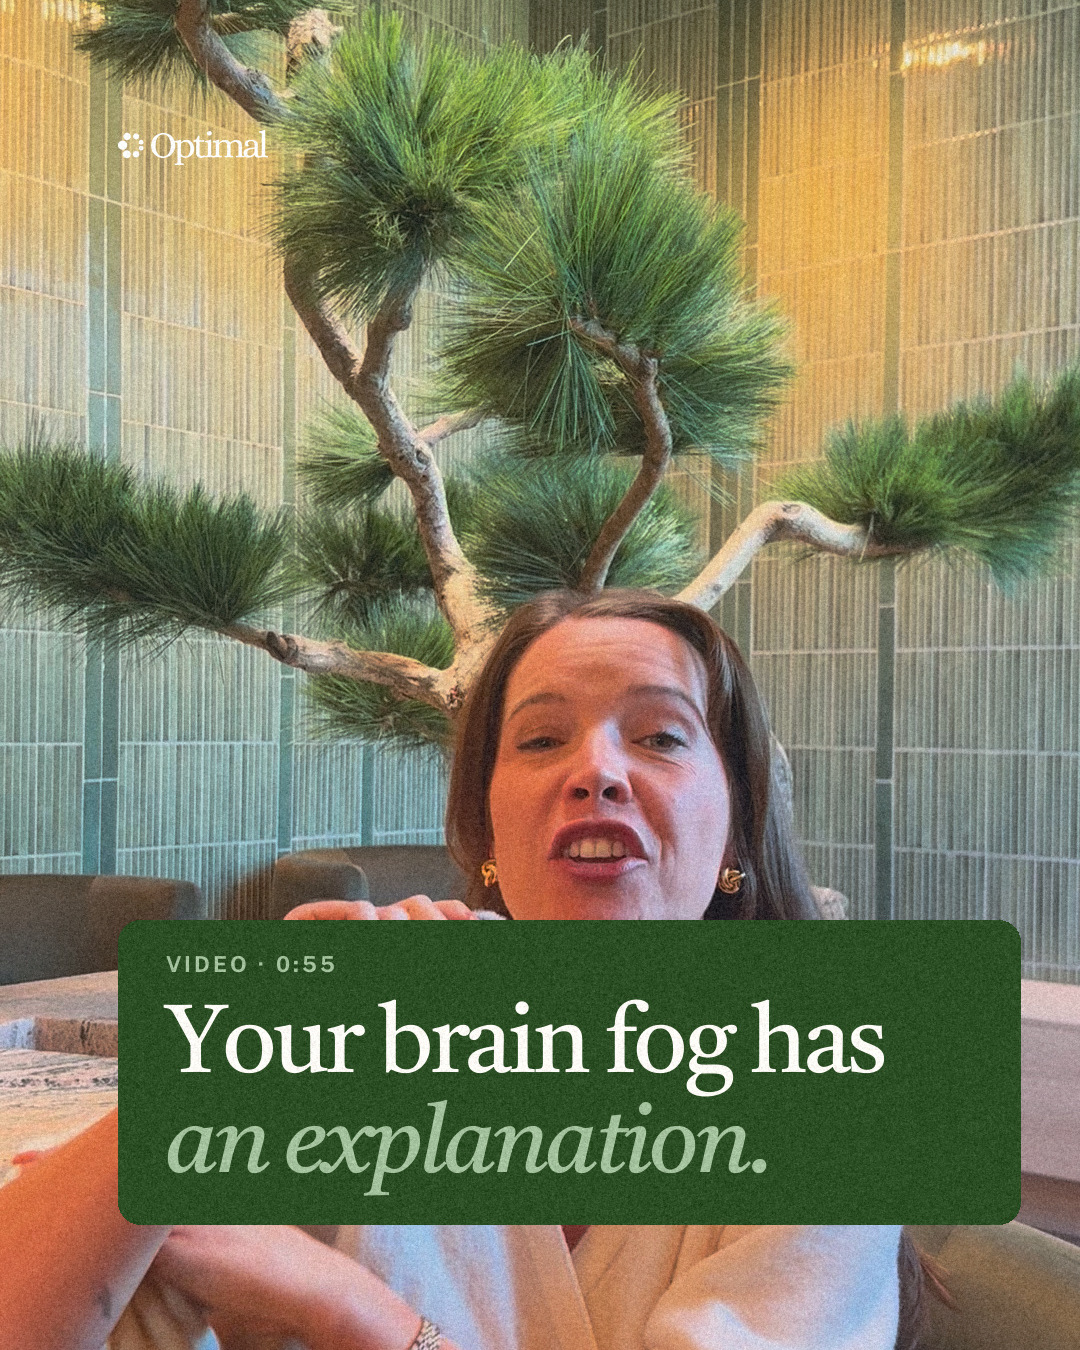
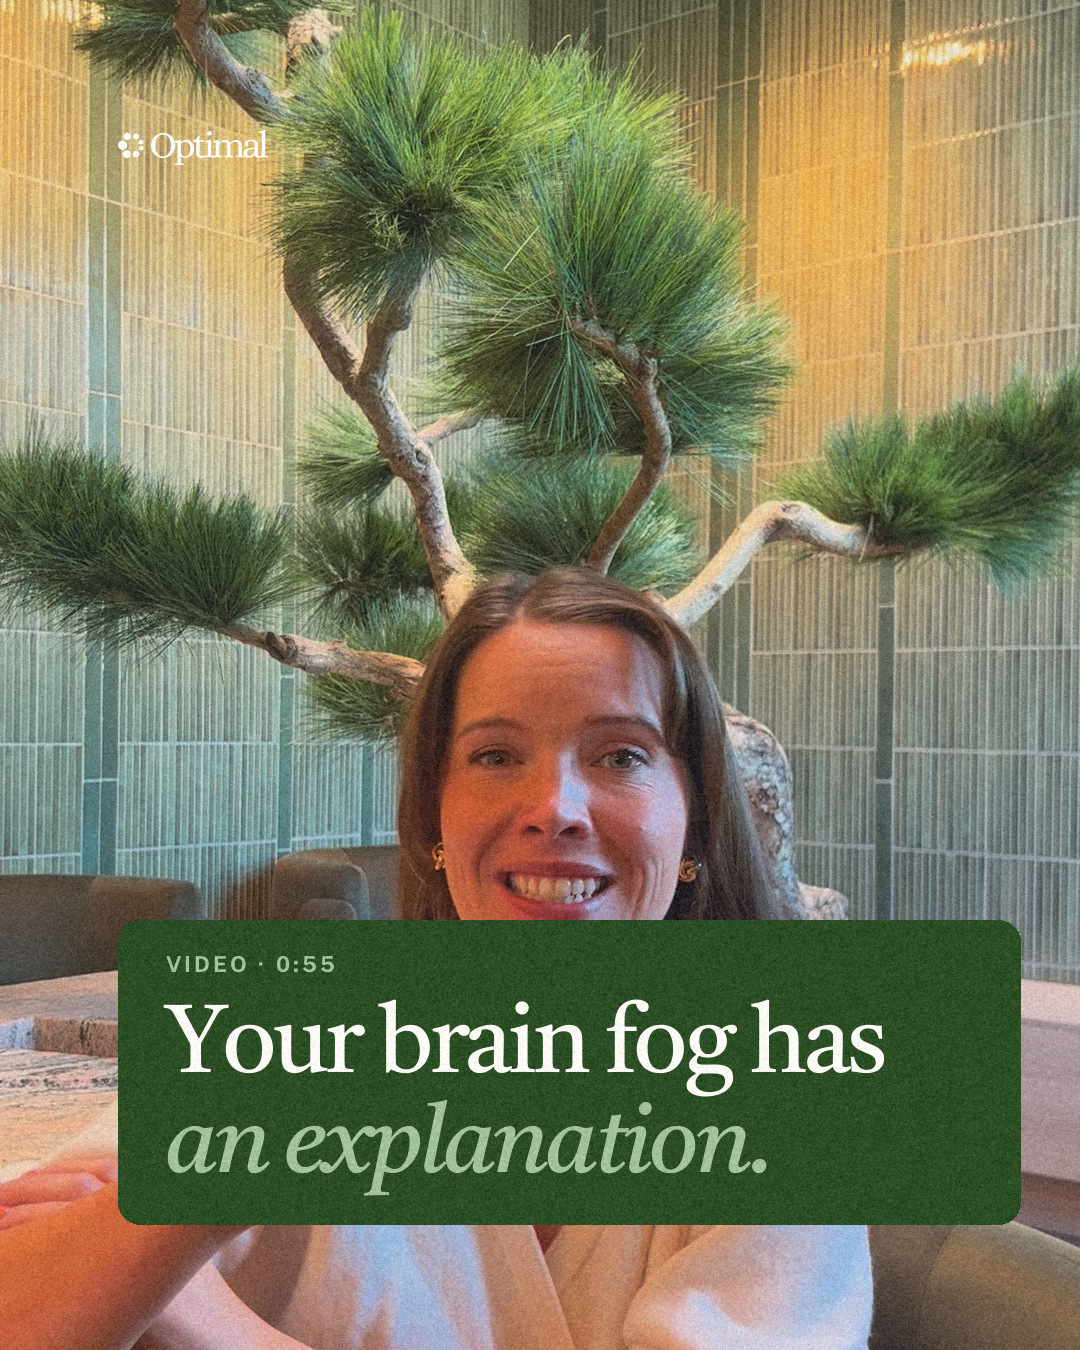
Hand-off site: ads updated Oct 26, 2026

diff --git a/index.html b/index.html
@@ -220,7 +220,7 @@
       <div class="zips">Zips: <a href="https://github.com/Optimal-Research-Team/optimal-ad-handoff/releases/download/2026-10-12/Optimal-static-ads-round-1_2026-10-12.zip" download>Static round 1 · 21 MB</a> <a href="https://github.com/Optimal-Research-Team/optimal-ad-handoff/releases/download/2026-10-12/Optimal-static-ads-round-2_2026-10-12.zip" download>Static round 2 · 72 MB</a> <a href="https://github.com/Optimal-Research-Team/optimal-ad-handoff/releases/download/2026-10-12/Optimal-static-ads-round-3_2026-10-12.zip" download>Static round 3 · 28 MB</a> <a href="https://github.com/Optimal-Research-Team/optimal-ad-handoff/releases/download/2026-10-12/Optimal-IV-iron-ads_2026-10-12.zip" download>IV iron round 1 · 9 MB</a> <a href="https://github.com/Optimal-Research-Team/optimal-ad-handoff/releases/download/2026-10-12/Optimal-IV-iron-ads-round-2_2026-10-12.zip" download>IV iron round 2 · 24 MB</a> <a href="https://github.com/Optimal-Research-Team/optimal-ad-handoff/releases/download/2026-10-12/Optimal-cycle-hormone-statics_2026-10-12.zip" download>Cycle &amp; Hormone statics · 11 MB</a></div>
     </div>
   </div>
-  <div class="news" id="new"><div class="day latest"><div class="date">Oct 26</div><div><p>Instagram check: nothing new has gone up since Oct 24. MA2 is live as an organic feed post (since Oct 23), and its card now says so. Two drawn 3-D equipment reels went up on Oct 24 (the InBody 580 and the KICKR BIKE); they aren&#x27;t ads, so they have no cards here. New rule for organic posts (Peter, Oct 24): nothing that needs Meta&#x27;s AI label goes on Instagram or Facebook.</p><div class="ids"><a href="#MA2">MA2</a></div></div></div><div class="day"><div class="date">Oct 22</div><div><p>New service: Cycle &amp; Hormone Care. Cheryl&#x27;s three video ads (labelled with the program from the first frame), four single statics that each stand alone, one 5-card carousel that tells the story in order (hook, symptoms can connect, how we look, 12 weeks, free Cycle Check), and a Google search campaign in four ad groups. Hold everything until the Cycle &amp; Hormone Care page is live (the URL 404s today).</p><div class="ids"><a href="#CV1">CV1</a><a href="#CV2">CV2</a><a href="#CV3">CV3</a><a href="#CC">CC</a><a href="#CS3">CS3</a><a href="#CS4">CS4</a><a href="#CS5">CS5</a><a href="#CS6">CS6</a><a href="#CG1">CG1</a><a href="#CG2">CG2</a><a href="#CG3">CG3</a><a href="#CG4">CG4</a></div></div></div><div class="day"><div class="date">Oct 21</div><div><p>Eight Instagram posts went live, alternating menopause and IV iron: CB1, CB2, MI1, IRT2, MI2, IRT3, MI3, IRT4 (IRT1 was already up). None are on Facebook yet. Chantelle&#x27;s videos: her name title now opens over the room&#x27;s sound instead of dead silence. MV2 shows a blood draw, then the body composition scan. MV3 uses the hormone-levels chart from the menopause page. CB1 loses its opening shot and the 0:30 graphic, and CB2 loses the pause at 0:42.</p><div class="ids"><a href="#ig-CB1">CB1 (post)</a><a href="#ig-CB2">CB2 (post)</a><a href="#ig-MI1">MI1 (post)</a><a href="#ig-IRT2">IRT2 (post)</a><a href="#ig-MI2">MI2 (post)</a><a href="#ig-IRT3">IRT3 (post)</a><a href="#ig-MI3">MI3 (post)</a><a href="#ig-IRT4">IRT4 (post)</a><a href="#MV2">MV2</a><a href="#MV3">MV3</a></div></div></div><div class="day"><div class="date">Oct 20</div><div><p>Chantelle&#x27;s menopause video ads, each in a Tight and a Flow cut. Cheryl&#x27;s four IV iron talking heads. IR1 and IR2 redone with clearer images (IR2 uses the website hero), and IRV1 rebuilt from the hero. IR3 removed. Nine Instagram posts added, most not posted yet.</p><div class="ids"><a href="#MV3">MV3</a><a href="#MV2">MV2</a><a href="#IRT1">IRT1</a><a href="#IRT2">IRT2</a><a href="#IRT3">IRT3</a><a href="#IRT4">IRT4</a><a href="#IR1">IR1</a><a href="#IR2">IR2</a><a href="#IRV1">IRV1</a><a href="#ig-MI1">MI1 (post)</a><a href="#ig-MI2">MI2 (post)</a><a href="#ig-MI3">MI3 (post)</a><a href="#ig-CB1">CB1 (post)</a><a href="#ig-CB2">CB2 (post)</a><a href="#ig-IRT1">IRT1 (post)</a><a href="#ig-IRT2">IRT2 (post)</a><a href="#ig-IRT3">IRT3 (post)</a><a href="#ig-IRT4">IRT4 (post)</a><span class=gone>IR3 removed</span></div></div></div><div class="day"><div class="date">Oct 19</div><div><p>IV iron round 2, one Hormozi lever per ad. Every earlier ad re-made in Meta&#x27;s three ratios (1:1, 9:16, 1.91:1), so nothing gets cropped or boxed. AI-invented clinic rooms retired.</p><div class="ids"><a href="#IR4">IR4</a><a href="#IR5">IR5</a><a href="#IR6">IR6</a><a href="#IRM1">IRM1</a><a href="#IRM2">IRM2</a><a href="#IRV2">IRV2</a><a href="#IRV3">IRV3</a></div></div></div><div class="day"><div class="date">Oct 15</div><div><p>Rubeana&#x27;s longevity video ad, plus two organic posts.</p><div class="ids"><a href="#LV3">LV3-T</a><a href="#ig-RB1">RB1 (post)</a><a href="#ig-CI1">CI1 (post)</a></div></div></div><div class="day"><div class="date">Oct 14</div><div><p>IV iron pre-launch: the founding-waitlist ads on a Meta Instant Form.</p><div class="ids"><a href="#IR1">IR1</a><a href="#IR2">IR2</a><a href="#IRV1">IRV1</a></div></div></div><div class="day"><div class="date">Oct 13</div><div><p>Round 3 engraved concepts, and the Hormozi rewrite of every image line (see How to launch).</p><div class="ids"><a href="#MA1">MA1</a><a href="#MA2">MA2</a><a href="#LA1">LA1</a><a href="#LA2">LA2</a></div></div></div><div class="day"><div class="date">Oct 12</div><div><p>The first set: Cheryl&#x27;s three videos, round 1 and round 2 statics for both services, and both carousels.</p><div class="ids"><a href="#MV1">MV1-T</a><a href="#LV1">LV1-T</a><a href="#LV2">LV2-T</a><a href="#M3">M3</a><a href="#MB1">MB1</a><a href="#MB5">MB5</a><a href="#MC">MC1–5</a><a href="#L1">L1</a><a href="#L2">L2</a><a href="#LB1">LB1</a><a href="#LC">LC1–5</a></div></div></div></div>
+  <div class="news" id="new"><div class="day latest"><div class="date">Oct 26</div><div><p>Instagram check: nothing new has gone up since Oct 24. MI2 (brain fog) was taken down for its cover, which caught Chantelle mid-word; it has a new cover (a smiling frame) and is ready to repost. MA2 is live as an organic feed post (since Oct 23), and its card now says so. Two drawn 3-D equipment reels went up on Oct 24 (the InBody 580 and the KICKR BIKE); they aren&#x27;t ads, so they have no cards here. New rule for organic posts (Peter, Oct 24): nothing that needs Meta&#x27;s AI label goes on Instagram or Facebook.</p><div class="ids"><a href="#ig-MI2">MI2 (post)</a><a href="#MA2">MA2</a></div></div></div><div class="day"><div class="date">Oct 22</div><div><p>New service: Cycle &amp; Hormone Care. Cheryl&#x27;s three video ads (labelled with the program from the first frame), four single statics that each stand alone, one 5-card carousel that tells the story in order (hook, symptoms can connect, how we look, 12 weeks, free Cycle Check), and a Google search campaign in four ad groups. Hold everything until the Cycle &amp; Hormone Care page is live (the URL 404s today).</p><div class="ids"><a href="#CV1">CV1</a><a href="#CV2">CV2</a><a href="#CV3">CV3</a><a href="#CC">CC</a><a href="#CS3">CS3</a><a href="#CS4">CS4</a><a href="#CS5">CS5</a><a href="#CS6">CS6</a><a href="#CG1">CG1</a><a href="#CG2">CG2</a><a href="#CG3">CG3</a><a href="#CG4">CG4</a></div></div></div><div class="day"><div class="date">Oct 21</div><div><p>Eight Instagram posts went live, alternating menopause and IV iron: CB1, CB2, MI1, IRT2, MI2, IRT3, MI3, IRT4 (IRT1 was already up). None are on Facebook yet. Chantelle&#x27;s videos: her name title now opens over the room&#x27;s sound instead of dead silence. MV2 shows a blood draw, then the body composition scan. MV3 uses the hormone-levels chart from the menopause page. CB1 loses its opening shot and the 0:30 graphic, and CB2 loses the pause at 0:42.</p><div class="ids"><a href="#ig-CB1">CB1 (post)</a><a href="#ig-CB2">CB2 (post)</a><a href="#ig-MI1">MI1 (post)</a><a href="#ig-IRT2">IRT2 (post)</a><a href="#ig-MI2">MI2 (post)</a><a href="#ig-IRT3">IRT3 (post)</a><a href="#ig-MI3">MI3 (post)</a><a href="#ig-IRT4">IRT4 (post)</a><a href="#MV2">MV2</a><a href="#MV3">MV3</a></div></div></div><div class="day"><div class="date">Oct 20</div><div><p>Chantelle&#x27;s menopause video ads, each in a Tight and a Flow cut. Cheryl&#x27;s four IV iron talking heads. IR1 and IR2 redone with clearer images (IR2 uses the website hero), and IRV1 rebuilt from the hero. IR3 removed. Nine Instagram posts added, most not posted yet.</p><div class="ids"><a href="#MV3">MV3</a><a href="#MV2">MV2</a><a href="#IRT1">IRT1</a><a href="#IRT2">IRT2</a><a href="#IRT3">IRT3</a><a href="#IRT4">IRT4</a><a href="#IR1">IR1</a><a href="#IR2">IR2</a><a href="#IRV1">IRV1</a><a href="#ig-MI1">MI1 (post)</a><a href="#ig-MI2">MI2 (post)</a><a href="#ig-MI3">MI3 (post)</a><a href="#ig-CB1">CB1 (post)</a><a href="#ig-CB2">CB2 (post)</a><a href="#ig-IRT1">IRT1 (post)</a><a href="#ig-IRT2">IRT2 (post)</a><a href="#ig-IRT3">IRT3 (post)</a><a href="#ig-IRT4">IRT4 (post)</a><span class=gone>IR3 removed</span></div></div></div><div class="day"><div class="date">Oct 19</div><div><p>IV iron round 2, one Hormozi lever per ad. Every earlier ad re-made in Meta&#x27;s three ratios (1:1, 9:16, 1.91:1), so nothing gets cropped or boxed. AI-invented clinic rooms retired.</p><div class="ids"><a href="#IR4">IR4</a><a href="#IR5">IR5</a><a href="#IR6">IR6</a><a href="#IRM1">IRM1</a><a href="#IRM2">IRM2</a><a href="#IRV2">IRV2</a><a href="#IRV3">IRV3</a></div></div></div><div class="day"><div class="date">Oct 15</div><div><p>Rubeana&#x27;s longevity video ad, plus two organic posts.</p><div class="ids"><a href="#LV3">LV3-T</a><a href="#ig-RB1">RB1 (post)</a><a href="#ig-CI1">CI1 (post)</a></div></div></div><div class="day"><div class="date">Oct 14</div><div><p>IV iron pre-launch: the founding-waitlist ads on a Meta Instant Form.</p><div class="ids"><a href="#IR1">IR1</a><a href="#IR2">IR2</a><a href="#IRV1">IRV1</a></div></div></div><div class="day"><div class="date">Oct 13</div><div><p>Round 3 engraved concepts, and the Hormozi rewrite of every image line (see How to launch).</p><div class="ids"><a href="#MA1">MA1</a><a href="#MA2">MA2</a><a href="#LA1">LA1</a><a href="#LA2">LA2</a></div></div></div><div class="day"><div class="date">Oct 12</div><div><p>The first set: Cheryl&#x27;s three videos, round 1 and round 2 statics for both services, and both carousels.</p><div class="ids"><a href="#MV1">MV1-T</a><a href="#LV1">LV1-T</a><a href="#LV2">LV2-T</a><a href="#M3">M3</a><a href="#MB1">MB1</a><a href="#MB5">MB5</a><a href="#MC">MC1–5</a><a href="#L1">L1</a><a href="#L2">L2</a><a href="#LB1">LB1</a><a href="#LC">LC1–5</a></div></div></div></div>
 </div></header>
 
 <nav class="tabs"><div class="wrap">
@@ -1180,10 +1180,10 @@ Educational content only. Not medical advice.
 #Barrie #BarrieOntario #SimcoeCounty #perimenopause #menopause #womenshealth</textarea></div></details>
         </div>
       </article>
-      <article class="card tile ig" id="ig-MI2">
+      <article class="card tile ig isnew" id="ig-MI2">
         <video src="previews/ig/MI2_4x5.mp4" poster="files/IG_MI2_cover_4x5.jpg" controls playsinline preload="none"></video>
-        <div class="tbody"><div><a href="https://www.instagram.com/reel/DexHtjyuKa9/" target="_blank" rel="noopener"><span class="pill posted">IG · Posted Oct 21</span></a> <span class="pill hold">FB · not yet</span> </div><h4><span class="id">MI2</span>Your brain fog has an explanation.</h4><span class="when">Added Oct 20 · updated Oct 21: softer opening (room tone, not silence)</span>
-          <div class="dls"><a class="dl primary" href="https://github.com/Optimal-Research-Team/optimal-ad-handoff/releases/download/2026-10-12/IG_MI2_feed_4x5.mp4" download><span>Feed post 4:5</span><em>10 MB</em></a><a class="dl" href="https://github.com/Optimal-Research-Team/optimal-ad-handoff/releases/download/2026-10-12/IG_MI2_reel_9x16.mp4" download><span>Reel 9:16</span><em>52 MB</em></a><a class="dl" href="files/IG_MI2_cover_4x5.jpg" download><span>Cover 4:5</span><em>726 KB</em></a></div>
+        <div class="tbody"><div><span class="pill hold">Not posted yet</span> <span class="pill new">Updated</span></div><h4><span class="id">MI2</span>Your brain fog has an explanation.</h4><span class="when">Added Oct 20 · updated <b>Oct 26</b>: new cover: Chantelle smiling, not mid-word</span>
+          <div class="dls"><a class="dl primary" href="https://github.com/Optimal-Research-Team/optimal-ad-handoff/releases/download/2026-10-12/IG_MI2_feed_4x5.mp4" download><span>Feed post 4:5</span><em>10 MB</em></a><a class="dl" href="https://github.com/Optimal-Research-Team/optimal-ad-handoff/releases/download/2026-10-12/IG_MI2_reel_9x16.mp4" download><span>Reel 9:16</span><em>52 MB</em></a><a class="dl" href="files/IG_MI2_cover_4x5.jpg" download><span>Cover 4:5</span><em>724 KB</em></a></div>
           <details class="more"><summary>Caption</summary><div class="field"><div class="flabel">Caption<button class="copy" data-copy="Your brain fog has a scientific explanation.
 
 Estrogen helps tune how brain cells signal and adapt in the areas that handle decisions, problem-solving, emotional regulation and memory. In perimenopause, it&#x27;s often not the level of estrogen that brings the fog, it&#x27;s how much it swings. As you move through to menopause and levels settle, these symptoms often get better. It&#x27;s temporary, and there are ways to ride out the waves.

diff --git a/build.py b/build.py
@@ -361,13 +361,15 @@ CHANGED = {"IR1": (D20, "new image and headline"), "IR2": (D20, "new image: the 
            "CB2": (D21, "pause at 0:42 cut; softer opening"),
            "CB1": (D21, "opening shot and the 0:30 graphic cut"),
            **{k: (D21, "softer opening (room tone, not silence)") for k in ("MI1", "MI2", "MI3")}}
+CHANGED["MI2"] = (D26, "new cover: Chantelle smiling, not mid-word")
 REMOVED = {"IR3": D20}
 SHORT = {"9x16": "9:16", "1x1": "1:1", "1-91x1": "1.91:1"}
 NEWS = [  # (date, what happened, ids that link to cards, ids removed)
-    (D26, "Instagram check: nothing new has gone up since Oct 24. MA2 is live as an organic feed post (since Oct 23), and its card "
+    (D26, "Instagram check: nothing new has gone up since Oct 24. MI2 (brain fog) was taken down for its cover, which caught "
+          "Chantelle mid-word; it has a new cover (a smiling frame) and is ready to repost. MA2 is live as an organic feed post (since Oct 23), and its card "
           "now says so. Two drawn 3-D equipment reels went up on Oct 24 (the InBody 580 and the KICKR BIKE); they aren't ads, so "
           "they have no cards here. New rule for organic posts (Peter, Oct 24): nothing that needs Meta's AI label goes on "
-          "Instagram or Facebook.", ["MA2"], []),
+          "Instagram or Facebook.", ["ig-MI2", "MA2"], []),
     (D22, "New service: Cycle & Hormone Care. Cheryl's three video ads (labelled with the program from the first frame), four "
           "single statics that each stand alone, one 5-card carousel that tells the story in order (hook, symptoms can "
           "connect, how we look, 12 weeks, free Cycle Check), and a Google search campaign in four ad groups. Hold everything "
@@ -395,10 +397,10 @@ NEWS = [  # (date, what happened, ids that link to cards, ids removed)
 # static ads that also went up on Instagram as organic feed posts: id -> (post shortcode, date)
 IG_STATIC = {"MA2": ("De2kqQAFkhP", "Oct 23")}
 IG_LINK = {"IRT1": "DeuqtE3ux0g", "CB1": "DexGHdyuXk0", "CB2": "DexGpqDuUb-", "MI1": "DexHDf2ulLf", "IRT2": "DexHYHRuWz5",
-           "MI2": "DexHtjyuKa9", "IRT3": "DexIED5u8No", "MI3": "DexId1Pusbd", "IRT4": "DexI9NouTrG"}   # posted Oct 20-21
+           "IRT3": "DexIED5u8No", "MI3": "DexId1Pusbd", "IRT4": "DexI9NouTrG"}   # posted Oct 20-21
 POSTS = [
     ("MI1", "meno-not-stupider", "MenoNotStupider", "You're not getting stupider.", D20, "posted Oct 21"),
-    ("MI2", "meno-brain-fog", "MenoBrainFog", "Your brain fog has an explanation.", D20, "posted Oct 21"),
+    ("MI2", "meno-brain-fog", "MenoBrainFog", "Your brain fog has an explanation.", D20, "taken down; new cover, ready to repost"),
     ("MI3", "meno-in-your-head", "MenoInYourHead", "It is all in your head, just not the way you think.", D20, "posted Oct 21"),
     ("CB1", "chantelle-bio", "ChantelleBio", "Meet Chantelle, PHC-NP.", D20, "posted Oct 21"),
     ("CB2", "chantelle-four-things", "ChantelleFourThings", "4 things I tell every new patient.", D20, "posted Oct 21"),
